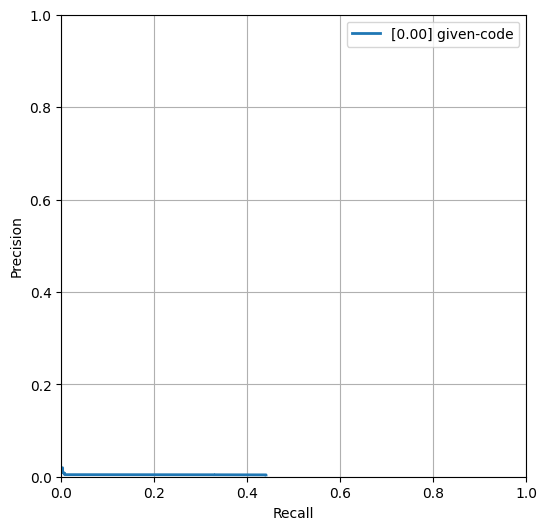
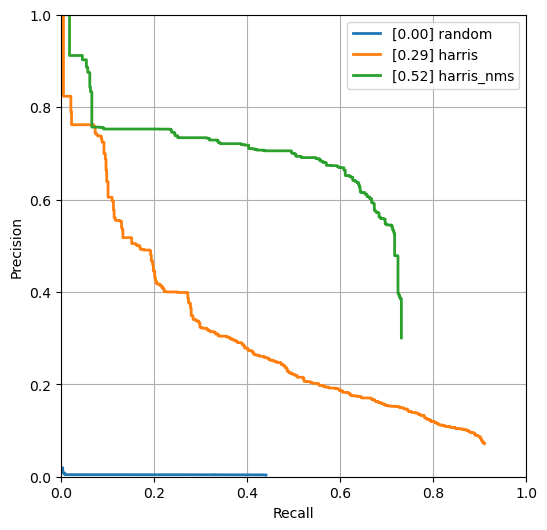
edited miscellaneous

diff --git a/MP2/corners/corner_demo.py b/MP2/corners/corner_demo.py
@@ -21,16 +21,16 @@ flags.DEFINE_enum("mode", "benchmark", ["benchmark", "vis"],
                   "Whether to visualize output on a single image, or benchmark on an image set")
 flags.DEFINE_string("imset", "val", 
                     "Image set to use for testing")
-flags.DEFINE_string("imname", "draw_cube_17", 
+flags.DEFINE_string("imname", "5904776", 
                     "Image set to use for testing")
 flags.DEFINE_float("vis_thresh", 0.1*255, 
-                    "Threshold value for visualization")
+                   "Threshold value for visualization")
 flags.DEFINE_integer("window_size", 5, 
-                    "window_size")
+                     "window_size")
 flags.DEFINE_integer("ws_nonmax", 5, 
-                    "ws_nonmax")
+                     "ws_nonmax")
 flags.DEFINE_float("k", 0.04, 
-                    "k")
+                   "k")
 
 def get_imlist(imset):
   ls = []
@@ -44,8 +44,8 @@ def detect_corners(imlist, fn, out_dir):
   for imname in tqdm(imlist):
     I = cv2.imread(os.path.join('data', FLAGS.imset, 'images', f'{imname}.png'))
     start_time = time.time()
-    response, corners = fn(I)
-    # response, corners = fn(I, window_size=FLAGS.window_size, ws_nonmax=FLAGS.ws_nonmax, alpha=FLAGS.k)
+    # response, corners = fn(I)
+    response, corners = fn(I, window_size=FLAGS.window_size, ws_nonmax=FLAGS.ws_nonmax, alpha=FLAGS.k)
     total_time += time.time() - start_time
     out_file_name = os.path.join(out_dir, str(imname)+'.png')
     cv2.imwrite(out_file_name, corners)

diff --git a/MP2/corners/corner_solve.py b/MP2/corners/corner_solve.py
@@ -5,7 +5,7 @@ import scipy
 from scipy import ndimage, signal
 
 
-def compute_corners(I, window_size=5, ws_nonmax=3, alpha=0.04):
+def compute_corners(I, window_size=5, ws_nonmax=7, alpha=0.06):
   """
     Harris corner detector which returns corner response map and non-max suppressed corners.
   Input:
@@ -70,6 +70,7 @@ def compute_corners(I, window_size=5, ws_nonmax=3, alpha=0.04):
       corners[h,w] = response[h,w] if window.max() == response[h,w] else 0
 
   return response, corners
+
 
 def create_gaussian_kernel(window_size, sigma):
   """

diff --git a/MP2/corners/corner_plot.py b/MP2/corners/corner_plot.py
@@ -6,9 +6,9 @@ matplotlib.use('Agg')
 from matplotlib import pyplot as plt
 
 FLAGS = flags.FLAGS
-flags.DEFINE_list("dirs", ["output/demo"], 
+flags.DEFINE_list("dirs", ["output/random", "output/harris_5_k_006", "output/harris_5_k_006_nms_7"], 
                   "List of directories to read metrics from")
-flags.DEFINE_list("names", ["demo"], 
+flags.DEFINE_list("names", ["random", "harris", "harris_nms"], 
                   "Legends")
 flags.DEFINE_string("out_file_name", "plot",
                     "File to save plots to")
